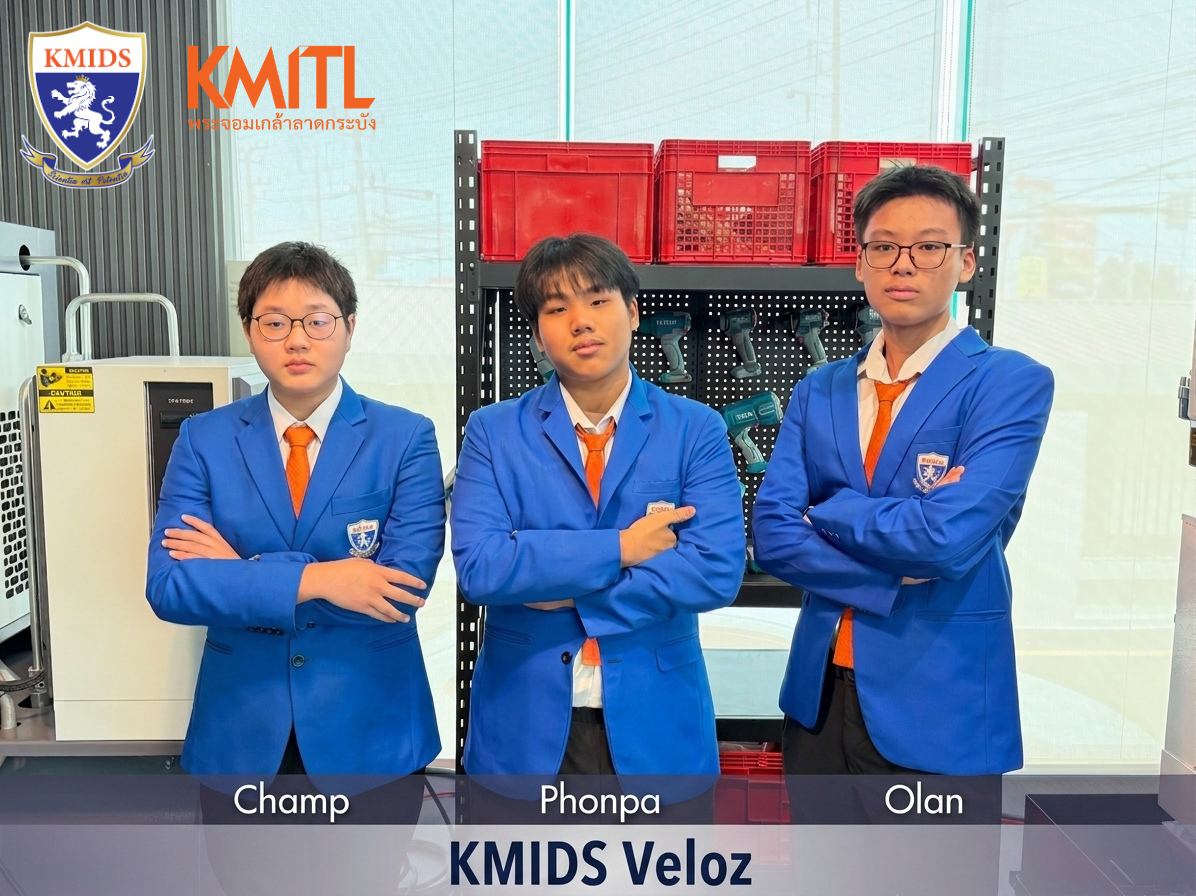
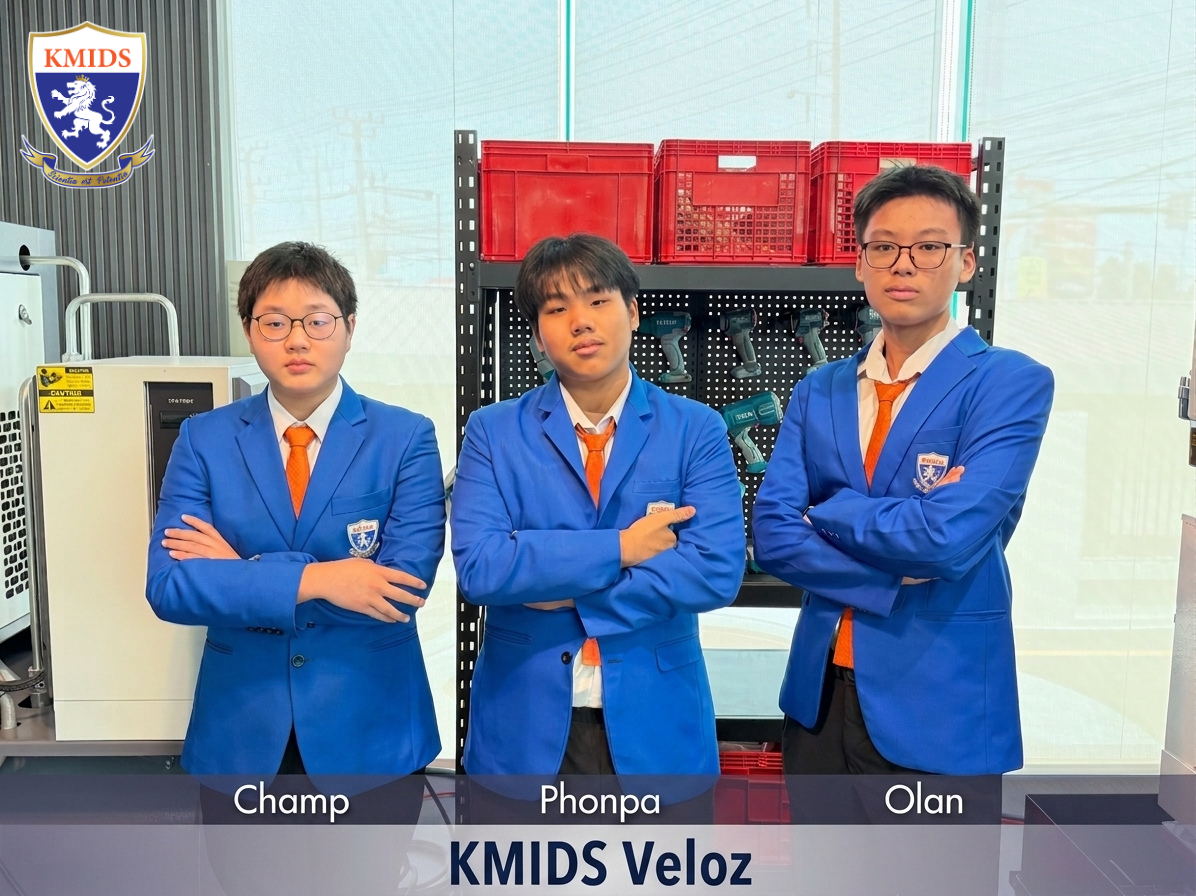
docs: [75%+] uploaded images of robot parts + freecads

Changed region(s): [[0.1547, 0.0312, 0.3094, 0.1562]]

diff --git a/README.md b/README.md
@@ -7,7 +7,7 @@
 > Designing, building, and continuously improving an autonomous vehicle for the World Robot Olympiad Future Engineers challenge.
 
 <!-- IMAGE: Robot overview photo (final robot, 3/4 angle, clean background) -->
-![Robot overview](assets/robot_overview.jpg)
+![Robot overview](assets/robot_overview.png)
 
 </div>
 
@@ -98,7 +98,7 @@ The six required orientation views, four additional angled shots, and a photo of
 |---|---|---|---|
 | ![Left side](assets/left_side_view.png) | ![Left rear](assets/left_back_side_view.png) | ![Right side](assets/right_side_view.png) | ![Right rear](assets/right_back_side_view.png) |
 
-<!-- IMAGE: Internal electronics — open chassis or component stack, shows sensor/board placement -->
+Internal Electronics:
 ![Internal electronics](assets/internals.png)
 
 Section 3.2 also includes a labeled top-down sensor placement diagram (`assets/sensor_placement.png`) showing LIDAR, camera, and IMU positions schematically.
@@ -127,7 +127,7 @@ This section covers how the robot moves: what drives the rear wheels, how the fr
 The robot uses a single **20GP-180 DC gearmotor with an integrated quadrature encoder** to drive the rear wheels. Power is transferred from the motor through a printed gear system (`MotorGear.FCStd`), while encoder feedback is wired back to the Raspberry Pi Pico 2 so wheel rotation can be measured directly instead of assumed.
 
 <!-- IMAGE: 20GP-180 motor photo -->
-![20GP-180 DC gearmotor — TODO: replace with real photo](assets/20gp180_motor.jpg)
+![20GP-180 DC gearmotor](assets/20gp180_motor.png)
 
 #### Motor: 20GP-180 DC Gearmotor
 
@@ -157,17 +157,17 @@ The 20GP-180 family is sold across several gear ratios with no-load speed and st
 **Motor gear:** power from the motor is transferred through a printed motor gear (`MotorGear.FCStd`).
 
 <!-- IMAGE: Motor gear -->
-![Motor gear — TODO: replace with real photo](assets/motor_gear.jpg)
+![Motor gear](assets/motor_gear.png)
 
 The gear is a separate printed component rather than being integrated directly into the chassis, which makes the drivetrain easier to modify if the motor, gear ratio, or wheel configuration changes during development. Our CAD parts list also includes `LegoBevelGear.FCStd` and `LegoDifferentialGear.FCStd` — we use off-the-shelf LEGO Technic gear elements paired with a `16GA.FCStd` axle rod inside the rear axle assembly rather than designing custom bevel/differential gearing from scratch, which saved print-and-fit iteration on a part that's easy to get wrong and cheap to buy correct.
 
 **Motor mounting:** the motor is mounted using a printed motor holder and a detachable motor plate.
 
 <!-- IMAGE: Motor holder -->
-![Motor holder — TODO: replace with real photo](assets/motor_holder.jpg)
+![Motor holder](assets/motor_holder.png)
 
 <!-- IMAGE: Motor plate -->
-![Motor plate — TODO: replace with real photo](assets/motor_plate.jpg)
+![Motor plate] (assets/motor_plate.png)
 
 Relevant CAD files: `MotorHolder.FCStd`, `MotorPlate.FCStd`, `MotorGear.FCStd`.
 
@@ -222,7 +222,7 @@ The diagram above is a general technical reference for the Ackermann geometry pr
 #### Servo: Surpass Hobby S0009M (9g digital)
 
 <!-- IMAGE: Servo photo -->
-![Surpass Hobby S0009M servo — TODO: replace with real photo](assets/servo.jpg)
+![Surpass Hobby S0009M servo](assets/servo.png)
 
 **Specifications**
 
@@ -239,7 +239,7 @@ The diagram above is a general technical reference for the Ackermann geometry pr
 #### Linkages
 
 <!-- IMAGE: T-bone and transfer linkage parts -->
-![Steering linkage parts — TODO: replace with real photo](assets/steering_linkages.jpg)
+![Steering linkage parts](assets/steering_linkages.png)
 
 The T-bone linkage connects the servo horn to the two transfer linkages, which in turn connect to the wheel linkages at each front wheel. Splitting the linkage into separate printed parts (rather than one solid arm) lets us adjust pivot points and re-print a single part if a specific linkage geometry needs revising, instead of reprinting the whole steering assembly.
 
@@ -250,7 +250,7 @@ The physical steering range is constrained in firmware, not just by the linkage 
 #### Mounting
 
 <!-- IMAGE: Servo mounting on front plate -->
-![Servo mounting — TODO: replace with real photo](assets/servo_mounting.jpg)
+![Servo mounting](assets/servo_mounting.png)
 
 The servo is screwed directly into a platform plate at the front of the chassis, connected to the steering mechanism described above.
 
